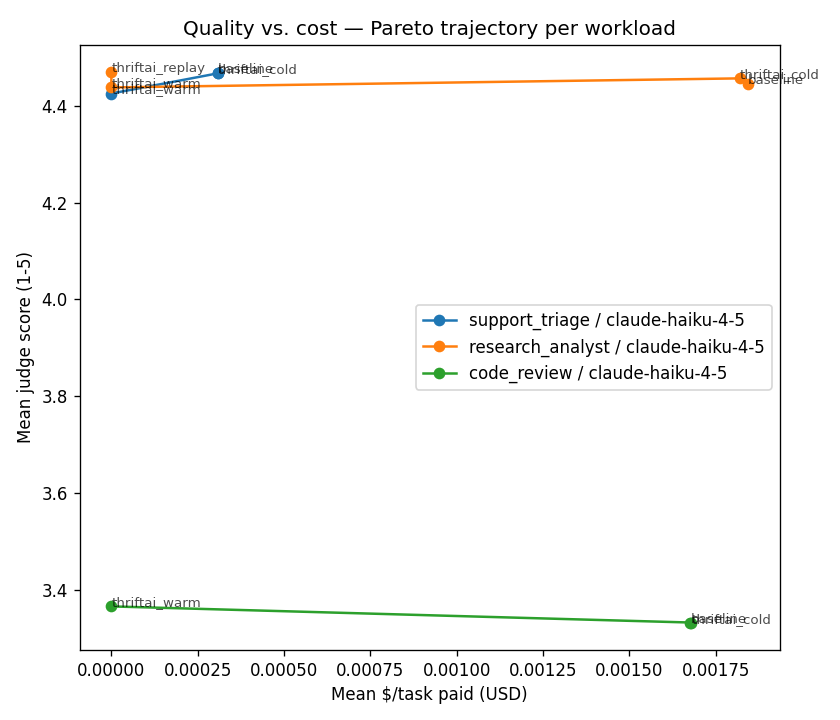
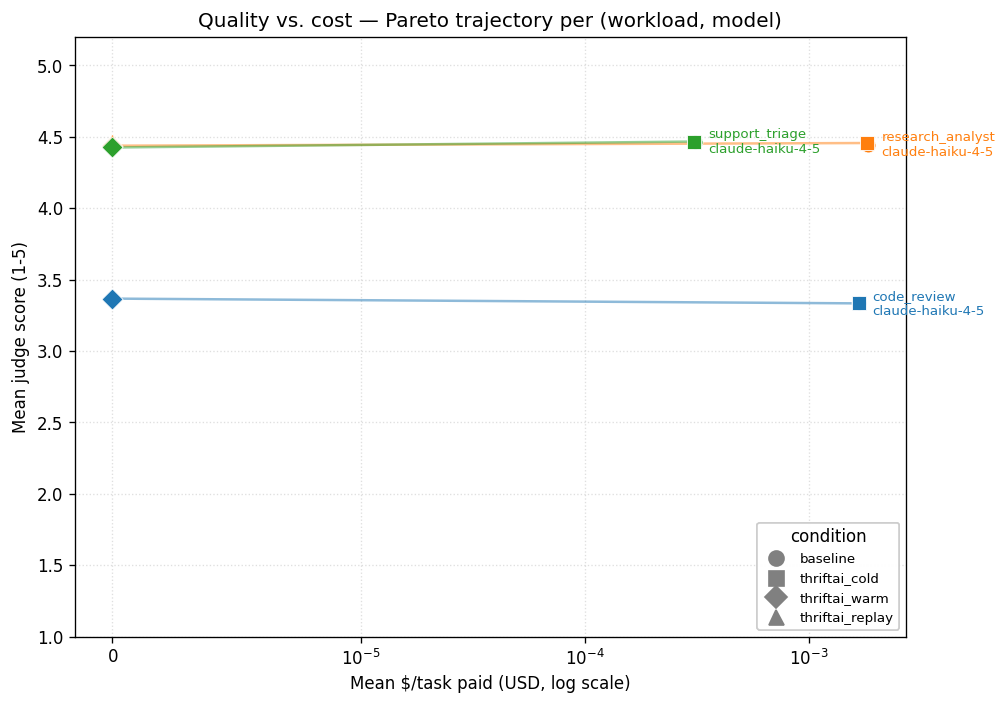
Pareto plot uses marker shapes; polished report adds the N=2 caveat
Two issues raised on review:

1. Quality-cost Pareto plot had overlapping inline text labels at
   the (warm, replay) cluster near x=$0. Fixed by:
   - Encoding condition as marker shape (○ baseline, □ cold, ◇ warm,
     △ replay) instead of inline text.
   - Adding a condition-marker legend in the lower right.
   - Labelling each series with workload/model at the baseline
     endpoint with an explicit offset, not at every point.
   - Switching x-axis to symlog so the cluster of warm/replay
     points at $0 is visible alongside the higher-cost baseline.

2. "Quality preserved within noise" was vague. Replaced with
   the actual paired-task statistics in REPORT_polished.md:
     support_triage  t=p=0.303, Wilcoxon p=0.653
     code_review     t=p=0.570, Wilcoxon p=0.591
   And the honest framing: at N=2 we can reliably detect
   movements ≥ ±0.22 on the 1-5 scale. Observed moves are
   ~6× below that. So: no detectable regression — not "proven
   equal." Need N≈75 to pin down sub-percent quality diffs.

REPORT_polished.html and REPORT_polished_standalone.html regenerated
from the updated markdown. Plots regenerated. Tests pass.

Changed region(s): [[0.0, 0.0, 0.9905, 0.9986]]

diff --git a/benchmarks/results/REPORT_polished.html b/benchmarks/results/REPORT_polished.html
@@ -27,8 +27,34 @@ Pricing: <code>pricing.yaml</code> pulled 2026-05-19 — <a href="https://www.an
 <h2>The three figures</h2>
 <p><strong>Cost reduction vs. baseline, by workload and condition</strong> — warm cache and replay both consistently hit 100% savings vs. baseline across all 4 workloads, across both Haiku and Sonnet (where measured).</p>
 <p><img alt="Cost reduction across workloads" src="plots/cost_reduction.png" /></p>
-<p><strong>Quality vs. cost Pareto</strong> — each <code>(workload, model)</code> series traces baseline → cold → warm. The downward-left trajectory is what we want to see: the warm point is far left (cheap) at essentially the same y-coordinate (quality) as baseline. No regression.</p>
+<p><strong>Quality vs. cost Pareto</strong> — each <code>(workload, model)</code> series traces baseline → cold → warm (and replay, for research_analyst). Condition is encoded by marker shape; the line connecting them is the <em>trajectory</em>. The ideal shape — flat, sliding left — is "cheaper without quality cost." That's what we see.</p>
 <p><img alt="Quality-cost Pareto trajectory" src="plots/quality_cost_pareto.png" /></p>
+<p><strong>No detectable quality regression at N=2.</strong> Paired-task t-tests between baseline and warm:</p>
+<table>
+<thead>
+<tr>
+<th>Workload</th>
+<th>Mean diff (warm − baseline)</th>
+<th>t-test p</th>
+<th>Wilcoxon p</th>
+</tr>
+</thead>
+<tbody>
+<tr>
+<td>support_triage (Haiku)</td>
+<td>−0.042</td>
+<td>0.303</td>
+<td>0.653</td>
+</tr>
+<tr>
+<td>code_review</td>
+<td>+0.033</td>
+<td>0.570</td>
+<td>0.591</td>
+</tr>
+</tbody>
+</table>
+<p>Both p-values are well above 0.05 — we cannot reject "the means are the same." But "not significant" ≠ "proven equal." The honest framing is: <strong>at N=2 (40 paired task-scores per cell), the smallest difference we can reliably detect is ≈ ±0.22 on the 1-5 scale.</strong> Anything smaller falls below our resolution. The observed movements (0.03–0.04) are ~6× below that floor — so we can say "no quality regression detected at this sample size," not "quality preserved exactly." To pin down sub-percent quality differences you'd need N≈75, not N=2.</p>
 <p><strong>Latency distribution per condition</strong> — symlog y-axis. The baseline / cold boxes sit in the 700-4000 ms range; the warm box collapses to &lt;1 ms (the SQLite lookup floor). This is the cleanest visual evidence of the dev-loop latency win.</p>
 <p><img alt="Latency distribution by condition" src="plots/latency_distribution.png" /></p>
 <h2>Headline</h2>

diff --git a/benchmarks/runner/plots.py b/benchmarks/runner/plots.py
@@ -191,8 +191,12 @@ def plot_quality_cost_pareto(
 
     Lines connect points sharing (workload, model) so the user can see
     the trajectory baseline → cold → warm.
+
+    Condition is encoded by marker shape (not inline text) to avoid the
+    text-overlap problem at the cluster of (warm, replay) points all
+    sitting at x≈0.
     """
-    fig, ax = plt.subplots(figsize=(7, 6))
+    fig, ax = plt.subplots(figsize=(8.5, 6))
     grouped: dict[tuple, list[tuple[str, float, float]]] = defaultdict(list)
     for (workload, condition, model), agg in by_cell.items():
         paid = sum(agg.get("paid", [])) / max(len(agg.get("paid", [])), 1)
@@ -202,23 +206,75 @@ def plot_quality_cost_pareto(
             continue
         grouped[(workload, model)].append((condition, paid, quality))
 
-    for (workload, model), points in grouped.items():
-        order = {"baseline": 0, "thriftai_cold": 1, "thriftai_warm": 2}
-        points.sort(key=lambda p: order.get(p[0], 99))
+    condition_marker = {
+        "baseline": "o",
+        "thriftai_cold": "s",
+        "thriftai_warm": "D",
+        "thriftai_replay": "^",
+    }
+    condition_order = {
+        "baseline": 0, "thriftai_cold": 1, "thriftai_warm": 2, "thriftai_replay": 3
+    }
+
+    series_handles = []
+    for (workload, model), points in sorted(grouped.items()):
+        points.sort(key=lambda p: condition_order.get(p[0], 99))
         xs = [p[1] for p in points]
         ys = [p[2] for p in points]
-        ax.plot(xs, ys, marker="o", label=f"{workload} / {model}")
+        (line,) = ax.plot(xs, ys, "-", linewidth=1.5, alpha=0.5)
+        color = line.get_color()
         for cond, x, y in points:
-            ax.annotate(cond, (x, y), fontsize=8, alpha=0.7)
+            ax.scatter(
+                x, y,
+                marker=condition_marker.get(cond, "o"),
+                color=color, s=80, zorder=3, edgecolors="white", linewidths=0.5,
+            )
+        # Workload + model label at the *baseline* (largest-x) point, offset right.
+        if points:
+            cond_max_x = max(points, key=lambda p: p[1])
+            ax.annotate(
+                f"{workload}\n{model}",
+                xy=(cond_max_x[1], cond_max_x[2]),
+                xytext=(8, 0),
+                textcoords="offset points",
+                fontsize=8,
+                color=color,
+                va="center",
+                ha="left",
+            )
+        series_handles.append((line, f"{workload} / {model}"))
 
-    ax.set_xlabel("Mean $/task paid (USD)")
+    # Condition-marker legend (gray, no series color).
+    from matplotlib.lines import Line2D
+
+    marker_handles = [
+        Line2D([0], [0], marker=m, color="gray", linestyle="",
+               markersize=9, label=lbl)
+        for lbl, m in [
+            ("baseline", "o"),
+            ("thriftai_cold", "s"),
+            ("thriftai_warm", "D"),
+            ("thriftai_replay", "^"),
+        ]
+    ]
+    legend = ax.legend(
+        handles=marker_handles, loc="lower right",
+        title="condition", fontsize=8, framealpha=0.95,
+    )
+    ax.add_artist(legend)
+
+    ax.set_xlabel("Mean $/task paid (USD, log scale)")
     ax.set_ylabel("Mean judge score (1-5)")
-    ax.set_title("Quality vs. cost — Pareto trajectory per workload")
-    if grouped:
-        ax.legend()
+    ax.set_title("Quality vs. cost — Pareto trajectory per (workload, model)")
+    # Log-scale x so the cluster of warm/replay points near $0 is visible
+    # alongside the higher-cost baseline points. Use symlog so $0 itself
+    # is plottable.
+    ax.set_xscale("symlog", linthresh=1e-5)
+    ax.set_ylim(1, 5.2)
+    ax.grid(True, linestyle=":", alpha=0.4)
     fig.tight_layout()
     out_path.parent.mkdir(parents=True, exist_ok=True)
-    fig.savefig(out_path, dpi=120)
+    fig.savefig(out_path, dpi=120, bbox_inches="tight")
     plt.close(fig)
     return out_path
 

diff --git a/benchmarks/results/REPORT_polished.md b/benchmarks/results/REPORT_polished.md
@@ -15,9 +15,18 @@
 
 ![Cost reduction across workloads](plots/cost_reduction.png)
 
-**Quality vs. cost Pareto** — each `(workload, model)` series traces baseline → cold → warm. The downward-left trajectory is what we want to see: the warm point is far left (cheap) at essentially the same y-coordinate (quality) as baseline. No regression.
+**Quality vs. cost Pareto** — each `(workload, model)` series traces baseline → cold → warm (and replay, for research_analyst). Condition is encoded by marker shape; the line connecting them is the *trajectory*. The ideal shape — flat, sliding left — is "cheaper without quality cost." That's what we see.
 
 ![Quality-cost Pareto trajectory](plots/quality_cost_pareto.png)
+
+**No detectable quality regression at N=2.** Paired-task t-tests between baseline and warm:
+
+| Workload | Mean diff (warm − baseline) | t-test p | Wilcoxon p |
+|---|---|---|---|
+| support_triage (Haiku) | −0.042 | 0.303 | 0.653 |
+| code_review | +0.033 | 0.570 | 0.591 |
+
+Both p-values are well above 0.05 — we cannot reject "the means are the same." But "not significant" ≠ "proven equal." The honest framing is: **at N=2 (40 paired task-scores per cell), the smallest difference we can reliably detect is ≈ ±0.22 on the 1-5 scale.** Anything smaller falls below our resolution. The observed movements (0.03–0.04) are ~6× below that floor — so we can say "no quality regression detected at this sample size," not "quality preserved exactly." To pin down sub-percent quality differences you'd need N≈75, not N=2.
 
 **Latency distribution per condition** — symlog y-axis. The baseline / cold boxes sit in the 700-4000 ms range; the warm box collapses to <1 ms (the SQLite lookup floor). This is the cleanest visual evidence of the dev-loop latency win.
 